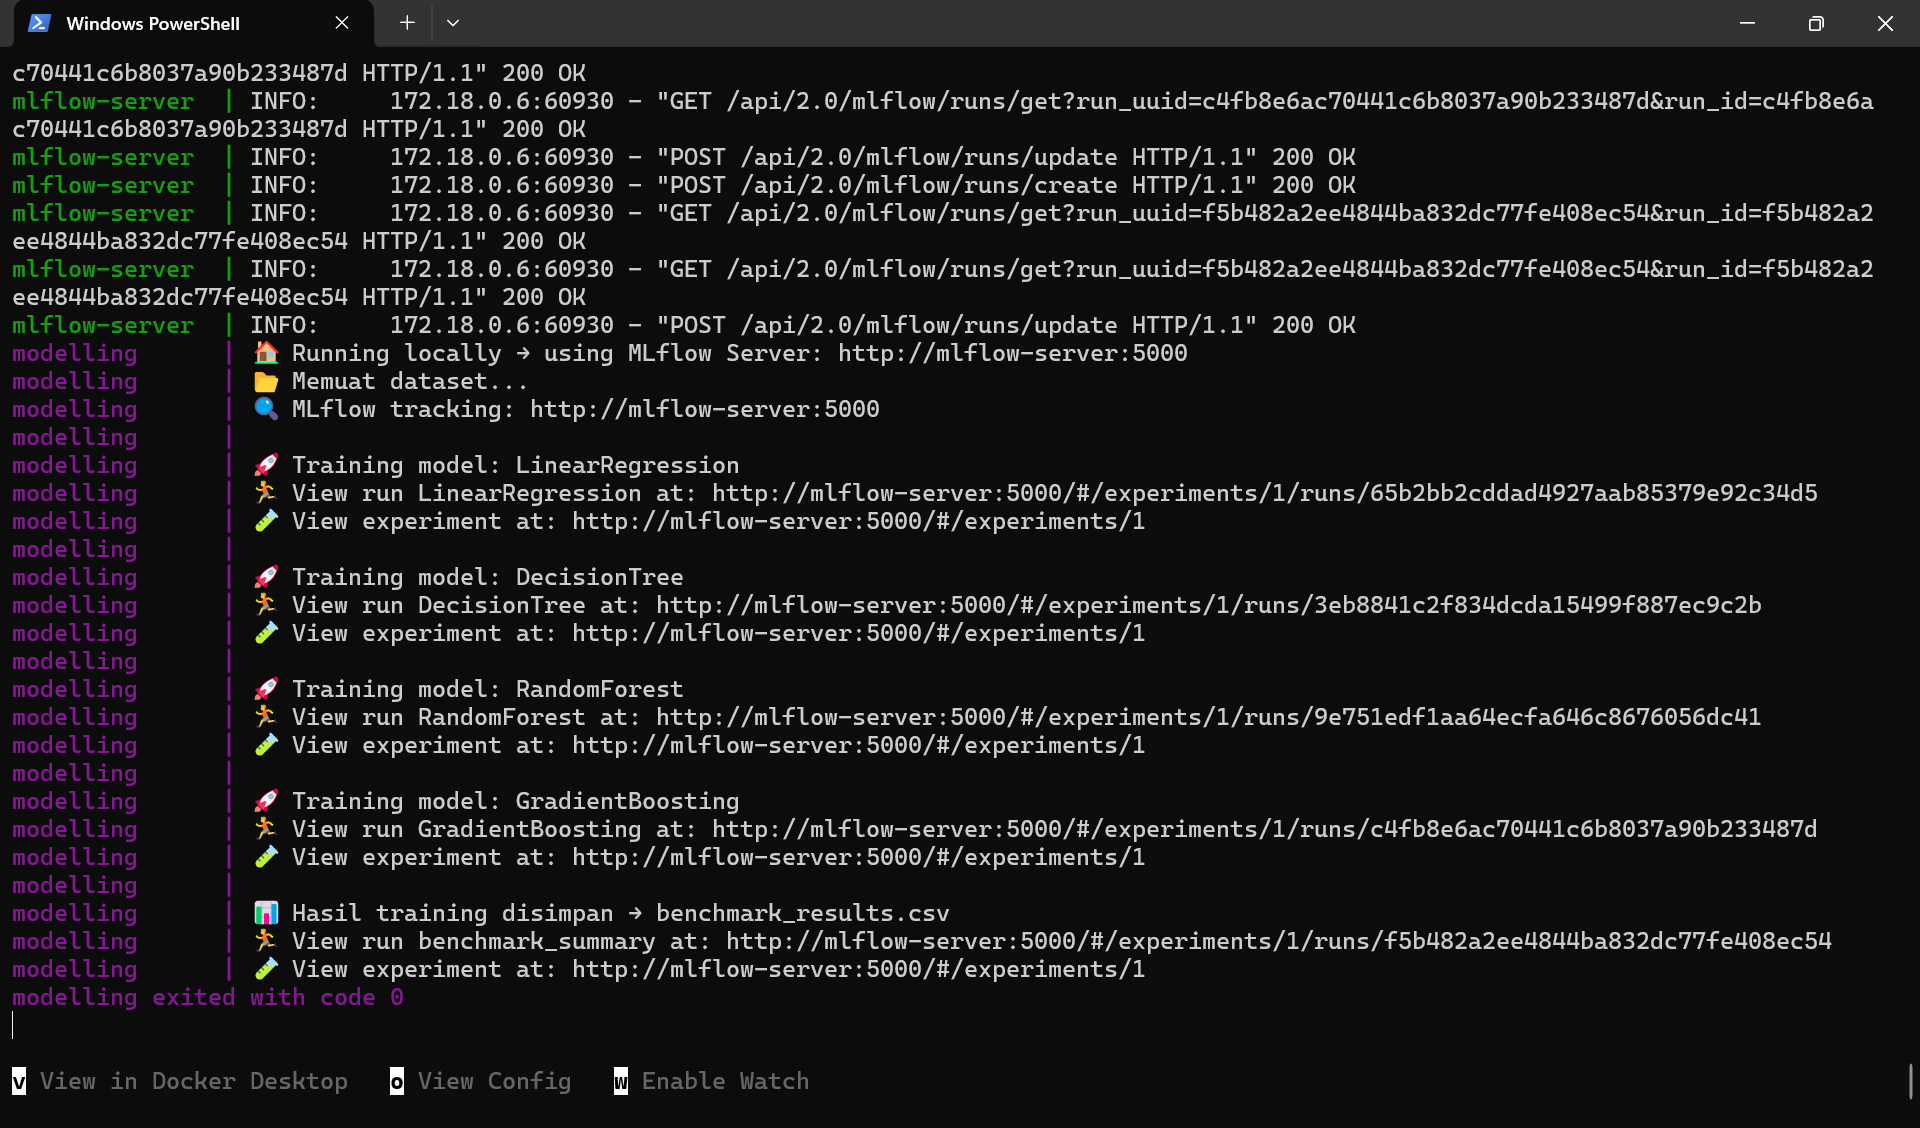
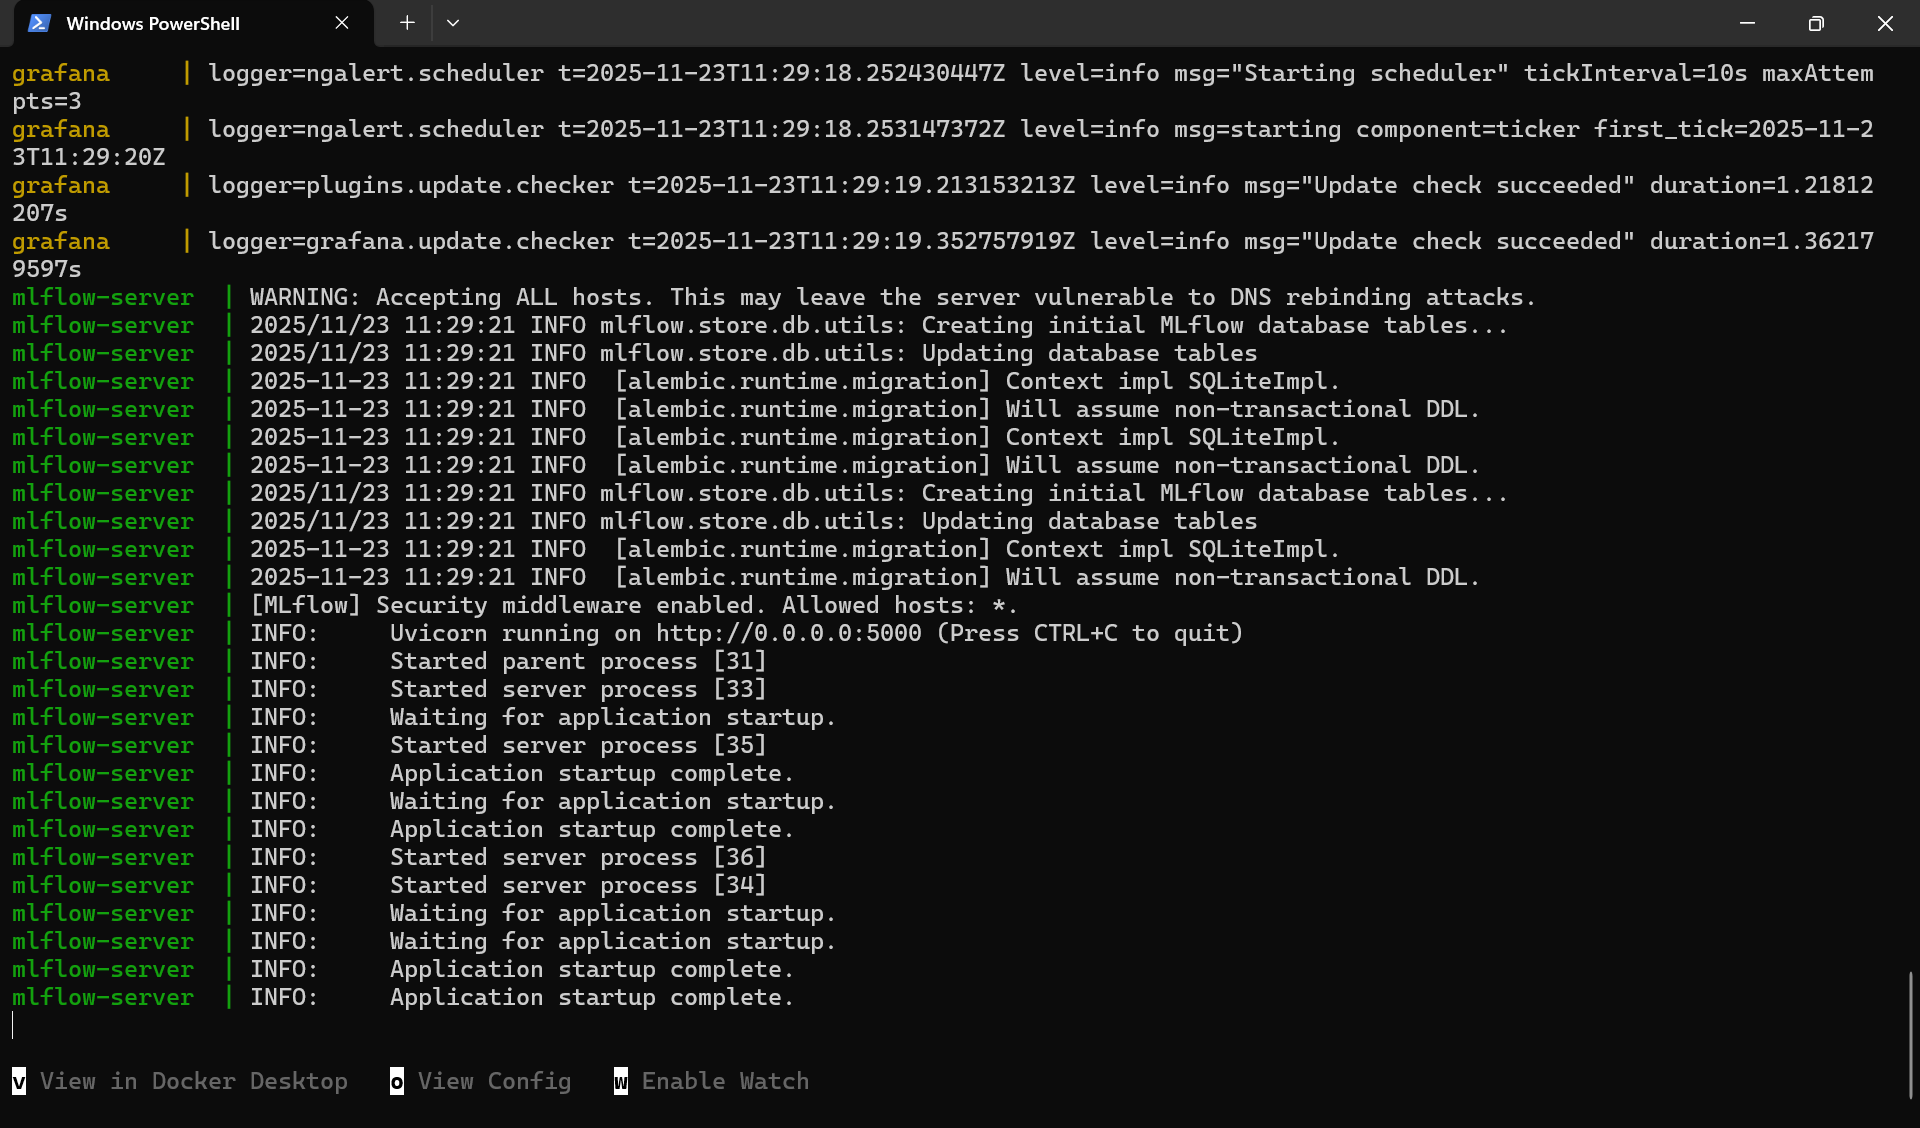
menjalankan sebelum di submit

Changed region(s): [[0.0, 0.031, 0.9688, 0.8998]]

diff --git a/Membangun_model/modelling.py b/Membangun_model/modelling.py
@@ -11,15 +11,19 @@ from sklearn.metrics import mean_squared_error, r2_score, mean_absolute_error
 
 import mlflow
 import mlflow.sklearn
-from mlflow.models.signature import infer_signature
 
 
+mlflow.sklearn.autolog()
+
+
+# Atur tracking URI
 if os.getenv("GITHUB_ACTIONS") == "true":
     MLFLOW_TRACKING_URI = "file:./mlruns"
     print("🔧 Running in GitHub Actions → using local MLflow store:", MLFLOW_TRACKING_URI)
 else:
     MLFLOW_TRACKING_URI = os.getenv("MLFLOW_TRACKING_URI", "http://mlflow-server:5000")
     print("🏠 Running locally → using MLflow Server:", MLFLOW_TRACKING_URI)
+
 
 EXPERIMENT_NAME = os.getenv("MLFLOW_EXPERIMENT", "california_housing_exp")
 
@@ -43,11 +47,13 @@ X_test = test_df.drop(columns=[TARGET_COL])
 y_test = test_df[TARGET_COL]
 
 
+# Mulai MLflow
 mlflow.set_tracking_uri(MLFLOW_TRACKING_URI)
 mlflow.set_experiment(EXPERIMENT_NAME)
 print(f"🔍 MLflow tracking: {MLFLOW_TRACKING_URI}")
 
 
+# Daftar model
 models = {
     "LinearRegression": LinearRegression(),
     "DecisionTree": DecisionTreeRegressor(random_state=42),
@@ -65,23 +71,17 @@ def train_model(name, model):
 
     pred = model.predict(X_test)
 
+    # Hitung metrik
     mse = mean_squared_error(y_test, pred)
     mae = mean_absolute_error(y_test, pred)
     r2 = r2_score(y_test, pred)
 
+    # Mulai MLflow Run
     with mlflow.start_run(run_name=name):
-        mlflow.log_param("model_name", name)
+        # Autolog otomatis mencatat parameter, metrik, model, artifact, dll
+        print(f"📌 Autolog aktif → logging otomatis untuk model {name}")
 
-
-        mlflow.log_metric("mse", mse)
-        mlflow.log_metric("mae", mae)
-        mlflow.log_metric("r2", r2)
-        mlflow.log_metric("training_duration_sec", duration)
-
-        signature = infer_signature(X_train, model.predict(X_train))
-        mlflow.sklearn.log_model(model, "model", signature=signature)
-
-
+        # Simpan plot prediksi sebagai artifact tambahan
         plt.figure()
         plt.scatter(y_test, pred)
         plt.xlabel("Actual Values")
@@ -97,7 +97,6 @@ def train_model(name, model):
     return {"model": name, "mse": mse, "mae": mae, "r2": r2}
 
 
-
 def main():
     results = []
     for name, model in models.items():
@@ -110,7 +109,6 @@ def main():
 
     print("\n📊 Hasil training disimpan → benchmark_results.csv")
 
-    # Log benchmark sebagai artefak
     with mlflow.start_run(run_name="benchmark_summary"):
         mlflow.log_artifact(benchmark_path)
 
